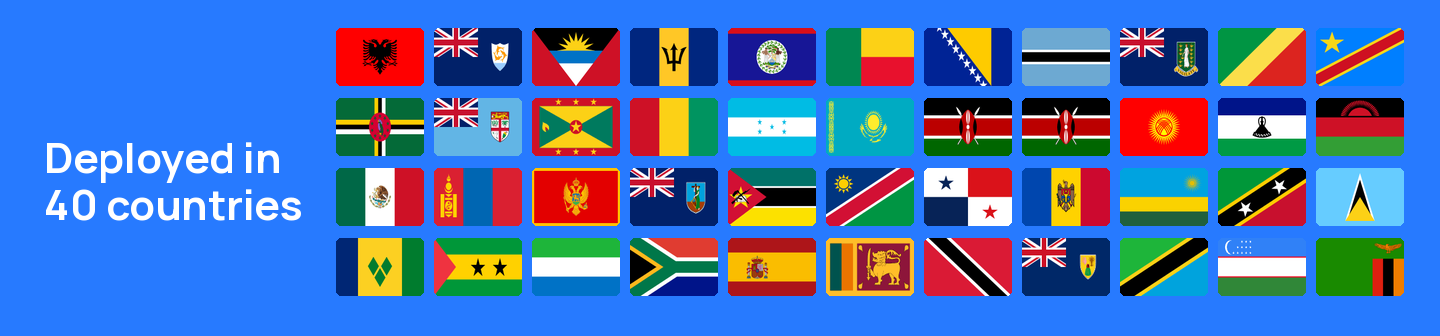
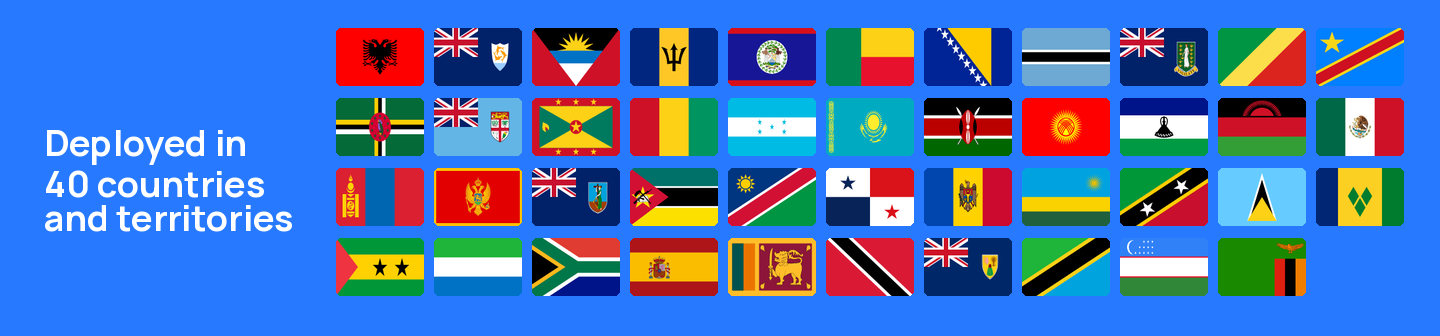
feat: update country grid label to 'countries and territories'

Changed region(s): [[0.0312, 0.2679, 1.0, 0.8929]]

diff --git a/.github/scripts/update_stats.py b/.github/scripts/update_stats.py
@@ -196,28 +196,31 @@ def generate_grid(countries: list[dict], countries_count: int = 0) -> Image.Imag
     img = Image.new("RGB", (CANVAS_W, total_h), GIGA_BLUE)
     draw = ImageDraw.Draw(img)
 
-    # Left column: "Deployed in\nX countries" — use metrics count as authoritative label
+    # Left column: three-line label "Deployed in / X countries / and territories"
     label = countries_count if countries_count else n
-    line1, line2 = "Deployed in", f"{label} countries"
+    line1, line2, line3 = "Deployed in", f"{label} countries", "and territories"
     font_size = 56
     font = load_font(font_size, bold=True)
     while font_size > 18:
         font = load_font(font_size, bold=True)
         w1 = draw.textbbox((0, 0), line1, font=font)[2]
         w2 = draw.textbbox((0, 0), line2, font=font)[2]
-        if max(w1, w2) <= LEFT_COL_W:
+        w3 = draw.textbbox((0, 0), line3, font=font)[2]
+        if max(w1, w2, w3) <= LEFT_COL_W:
             break
         font_size -= 2
 
     b1 = draw.textbbox((0, 0), line1, font=font)
     b2 = draw.textbbox((0, 0), line2, font=font)
-    h1, h2 = b1[3] - b1[1], b2[3] - b2[1]
+    b3 = draw.textbbox((0, 0), line3, font=font)
+    h1, h2, h3 = b1[3] - b1[1], b2[3] - b2[1], b3[3] - b3[1]
     line_gap = 6
-    text_total_h = h1 + line_gap + h2
+    text_total_h = h1 + line_gap + h2 + line_gap + h3
     text_y = (total_h - text_total_h) // 2
 
     draw.text((OUTER_H, text_y), line1, font=font, fill=WHITE)
     draw.text((OUTER_H, text_y + h1 + line_gap), line2, font=font, fill=WHITE)
+    draw.text((OUTER_H, text_y + h1 + line_gap + h2 + line_gap), line3, font=font, fill=WHITE)
 
     # Fetch all flags in parallel
     codes = [c.get("code", "") for c in countries_sorted]

diff --git a/README.md b/README.md
@@ -25,13 +25,13 @@ Countries
 {% endcolumn %}
 
 {% column %}
-#### 24,865
+#### 24,885
 
 Schools
 {% endcolumn %}
 
 {% column %}
-#### 8,200,041
+#### 8,213,636
 
 Measurements
 {% endcolumn %}
